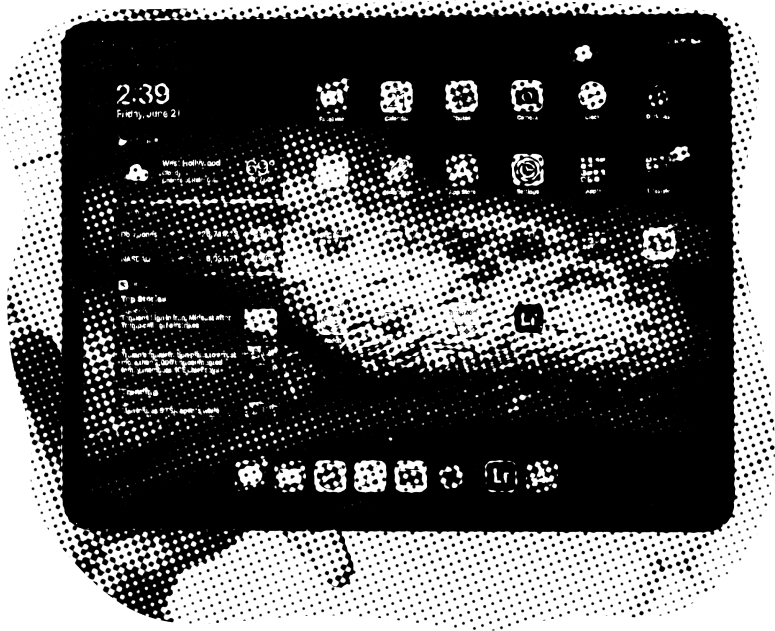
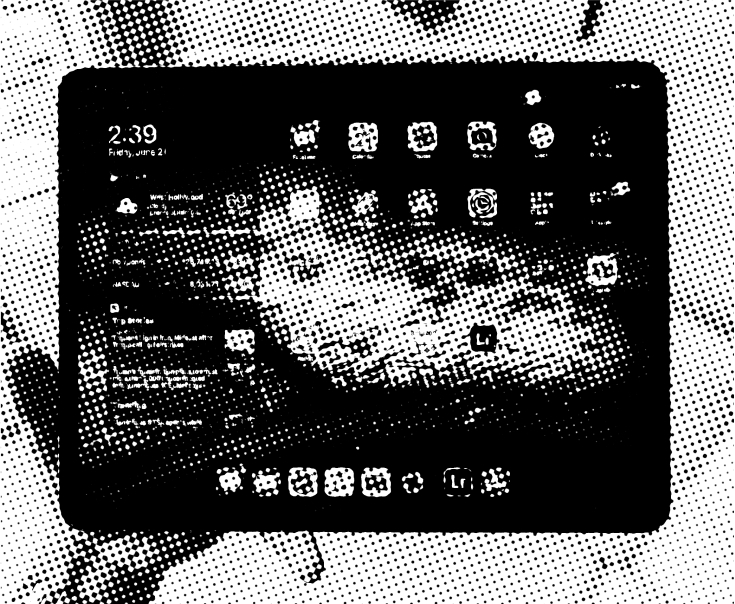
remove header, add team name, rotate hero image

diff --git a/layouts/partials/header/hero.html b/layouts/partials/header/hero.html
@@ -18,7 +18,7 @@
 {{ $subtitle_is_summary = true }}
 {{ end }}
 {{ end }}
-
+<img class="bg-image" src="/assets/images/hero.webp" alt="tablette grisée">
 <header
   class="hero {{ if .image }}hero--with-image hero--image-{{- $direction }}{{ end }} {{ if $breadcrumb_is_after_hero }} hero--no-margin {{ end }}">
   <div class="hero-top-container">
@@ -39,9 +39,7 @@
       {{ partial "header/breadcrumbs.html" .context }}
       {{ end }}
       <div class="content">
-        <img src="/assets/images/hero.webp" alt="tablette grisée">
-  
-        <div class="hero-text">
+        <!-- <div class="hero-text">
           {{ if or $subtitle $description }}
           <hgroup>
             <h1>Numérisé</h1>
@@ -55,17 +53,17 @@
           {{ else }}
           <h1>Numérisé</h1>
           {{ end }}
-  
+
           {{ with $button }}
           {{ if and .display .target .label }}
           <a href="{{ .target }}" class="btn">{{ .label }}</a>
           {{ end }}
           {{ end }}
-  
+
           {{ if .hero_text_complement }}
           {{ partial .hero_text_complement .context }}
           {{ end }}
-        </div>
+        </div> -->
         <!-- {{ if .image }}
           <figure>
             {{ partial "commons/image.html"
@@ -106,7 +104,12 @@
   </div>
   {{ end }}
 </header>
-
+<div class="title">
+  <div class="title-flex">
+    <p>Nous n’avons pas </p>
+    <p>NUMÉRISÉ</p>
+  </div>
+</div>
 {{ if and $display_breadcrumb $breadcrumb_is_after_hero }}
 <div class="container breadcrumb-container">
   {{ partial "header/breadcrumbs.html" .context }}

diff --git a/assets/sass/_theme/design-system/hero.sass b/assets/sass/_theme/design-system/hero.sass
@@ -1,6 +1,21 @@
+.bg-image
+    z-index: 99
+    position: absolute;
+    right: -120px;
+    top: -120px;
+    max-width: 700px;
+    width: 60vw;
+    z-index: 99;
+    transform: rotate(10deg);
 .hero
+    width: fit-content
+    span
+        line-height: 20px
     margin: 0
+    overflow-x: hidden
+    transform: rotate(10deg);
     .container
+        position: absolute
         padding: 0
         width: fit-content
     .hero-top-container
@@ -17,6 +32,7 @@
         span
             text-transform: uppercase
             font-weight: bold
+            font-size: 13px
             margin-right: $spacing-2
             &:nth-child(odd)
                 text-align: right
@@ -25,6 +41,7 @@
         text-transform: uppercase
         font-weight: bold
         span
+            font-size: 13px
             margin-right: $spacing-2
     .cross-names
         display: flex
@@ -33,7 +50,7 @@
         gap: $spacing-2
         margin-left: 80px
         img
-            transform: translateY(8px);
+            transform: translateY(2px);
 
 .hero
     // Support gradients
@@ -141,3 +158,5 @@
         @include media-breakpoint-down(desktop)
             margin-bottom: $spacing-5
 
+.title
+    text-transform: uppercase

diff --git a/layouts/partials/header/header.html b/layouts/partials/header/header.html
@@ -1,4 +1,4 @@
-{{ $primary := partial "GetMenu" "primary" }}
+<!-- {{ $primary := partial "GetMenu" "primary" }}
 
 <header id="document-header">
   <nav aria-label="{{ i18n "commons.menu.main" }}">
@@ -16,4 +16,4 @@
         </div>
     </div>
   </nav>
-</header>
+</header> -->

diff --git a/assets/sass/_style.sass b/assets/sass/_style.sass
@@ -1,0 +1,2 @@
+*
+  overflow-x: hidden
